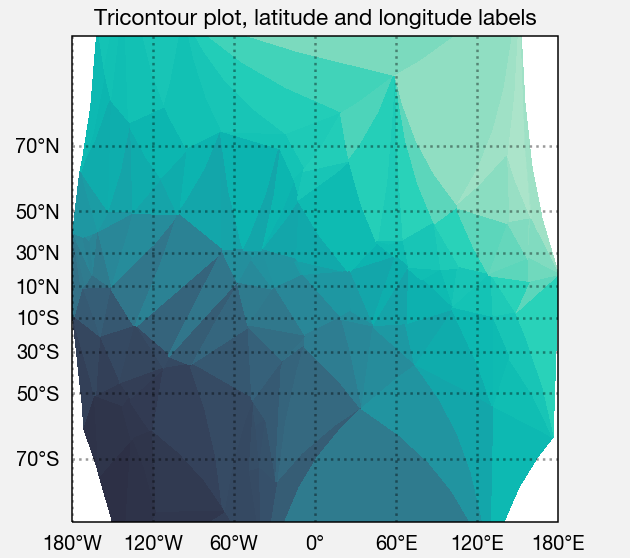
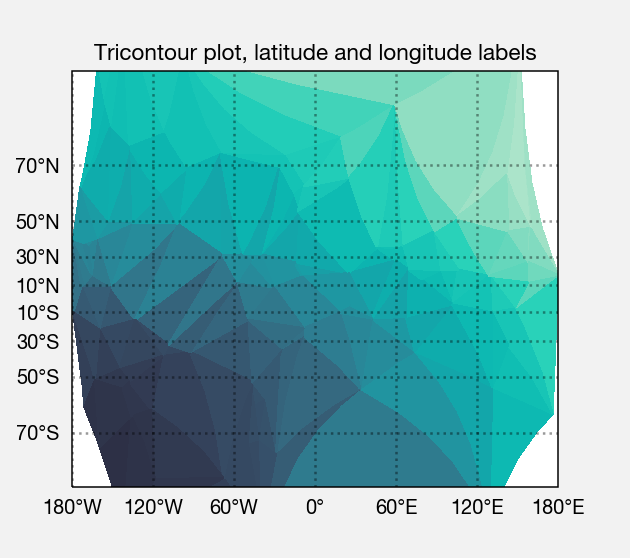
Minor

diff --git a/docs/showcase.rst b/docs/showcase.rst
@@ -296,7 +296,7 @@ most projections.
 
 
 
-.. image:: _static/showcase/showcase_13_1.png
+.. image:: _static/showcase/showcase_13_0.png
    :width: 630px
    :height: 417px
 
@@ -347,7 +347,7 @@ methods like ``tricontourf``.
     y = (y-0.5)*180
     levels = np.linspace(0, 1, 100)
     cnt = ax.tripcolor(x, y, z, levels=levels, cmap='Turquoise')
-    ax.format(title='Tricontour plot, latitude and longitude labels', xlabels='b', xlocator=60, ylocator=20)
+    ax.format(title='Tricontour plot, latitude and longitude labels', xlabels='b', ylabels='l', xlocator=60, ylocator=20, latmax=90)
 
 
 
